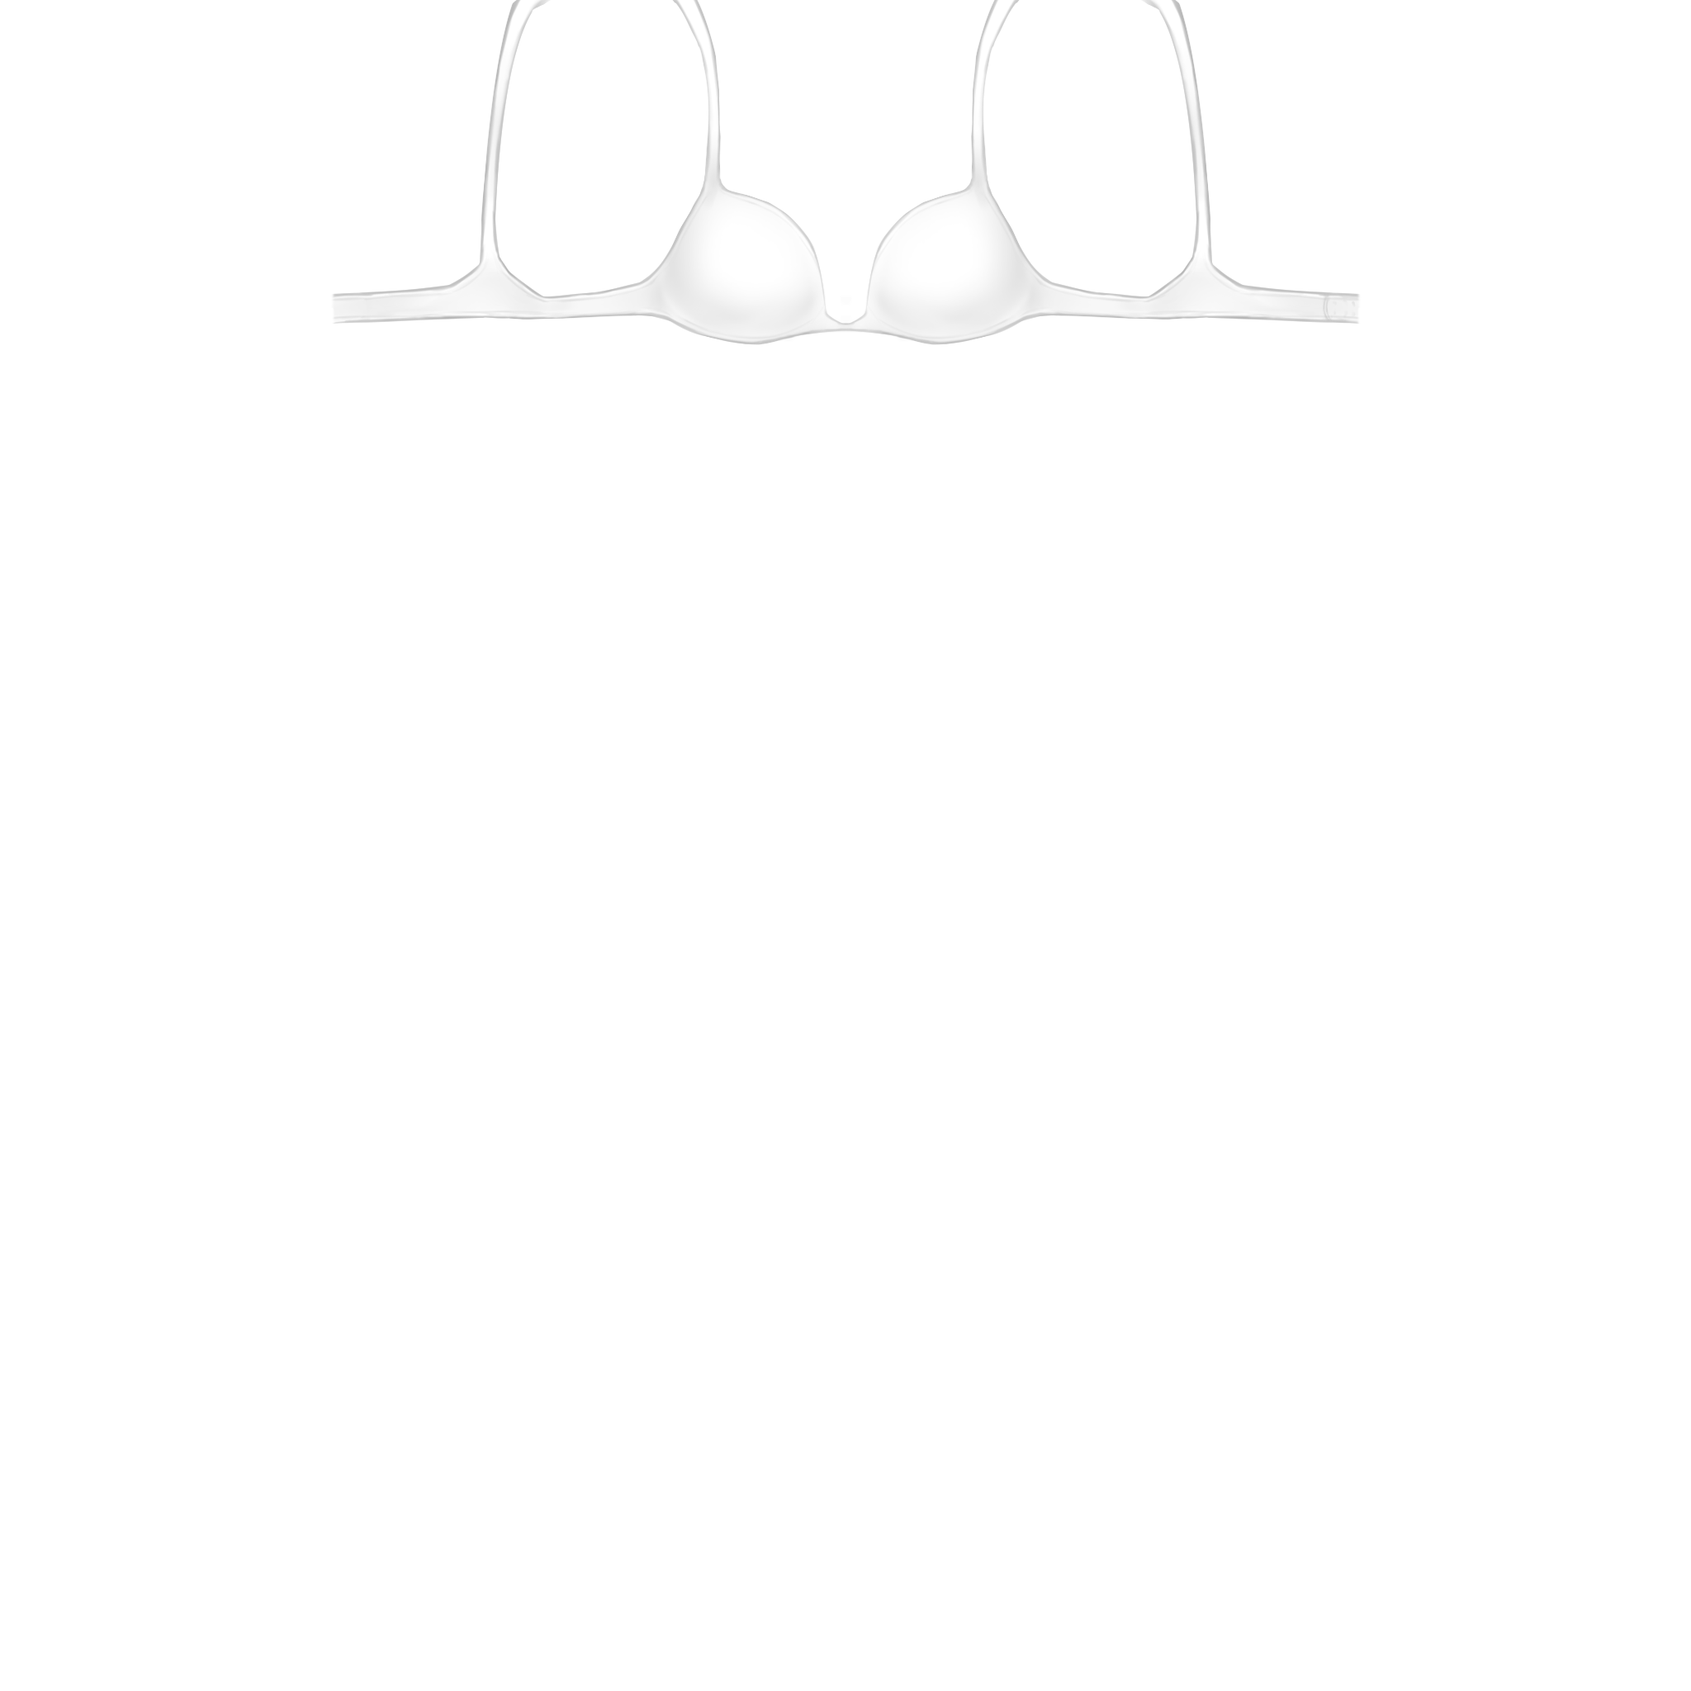
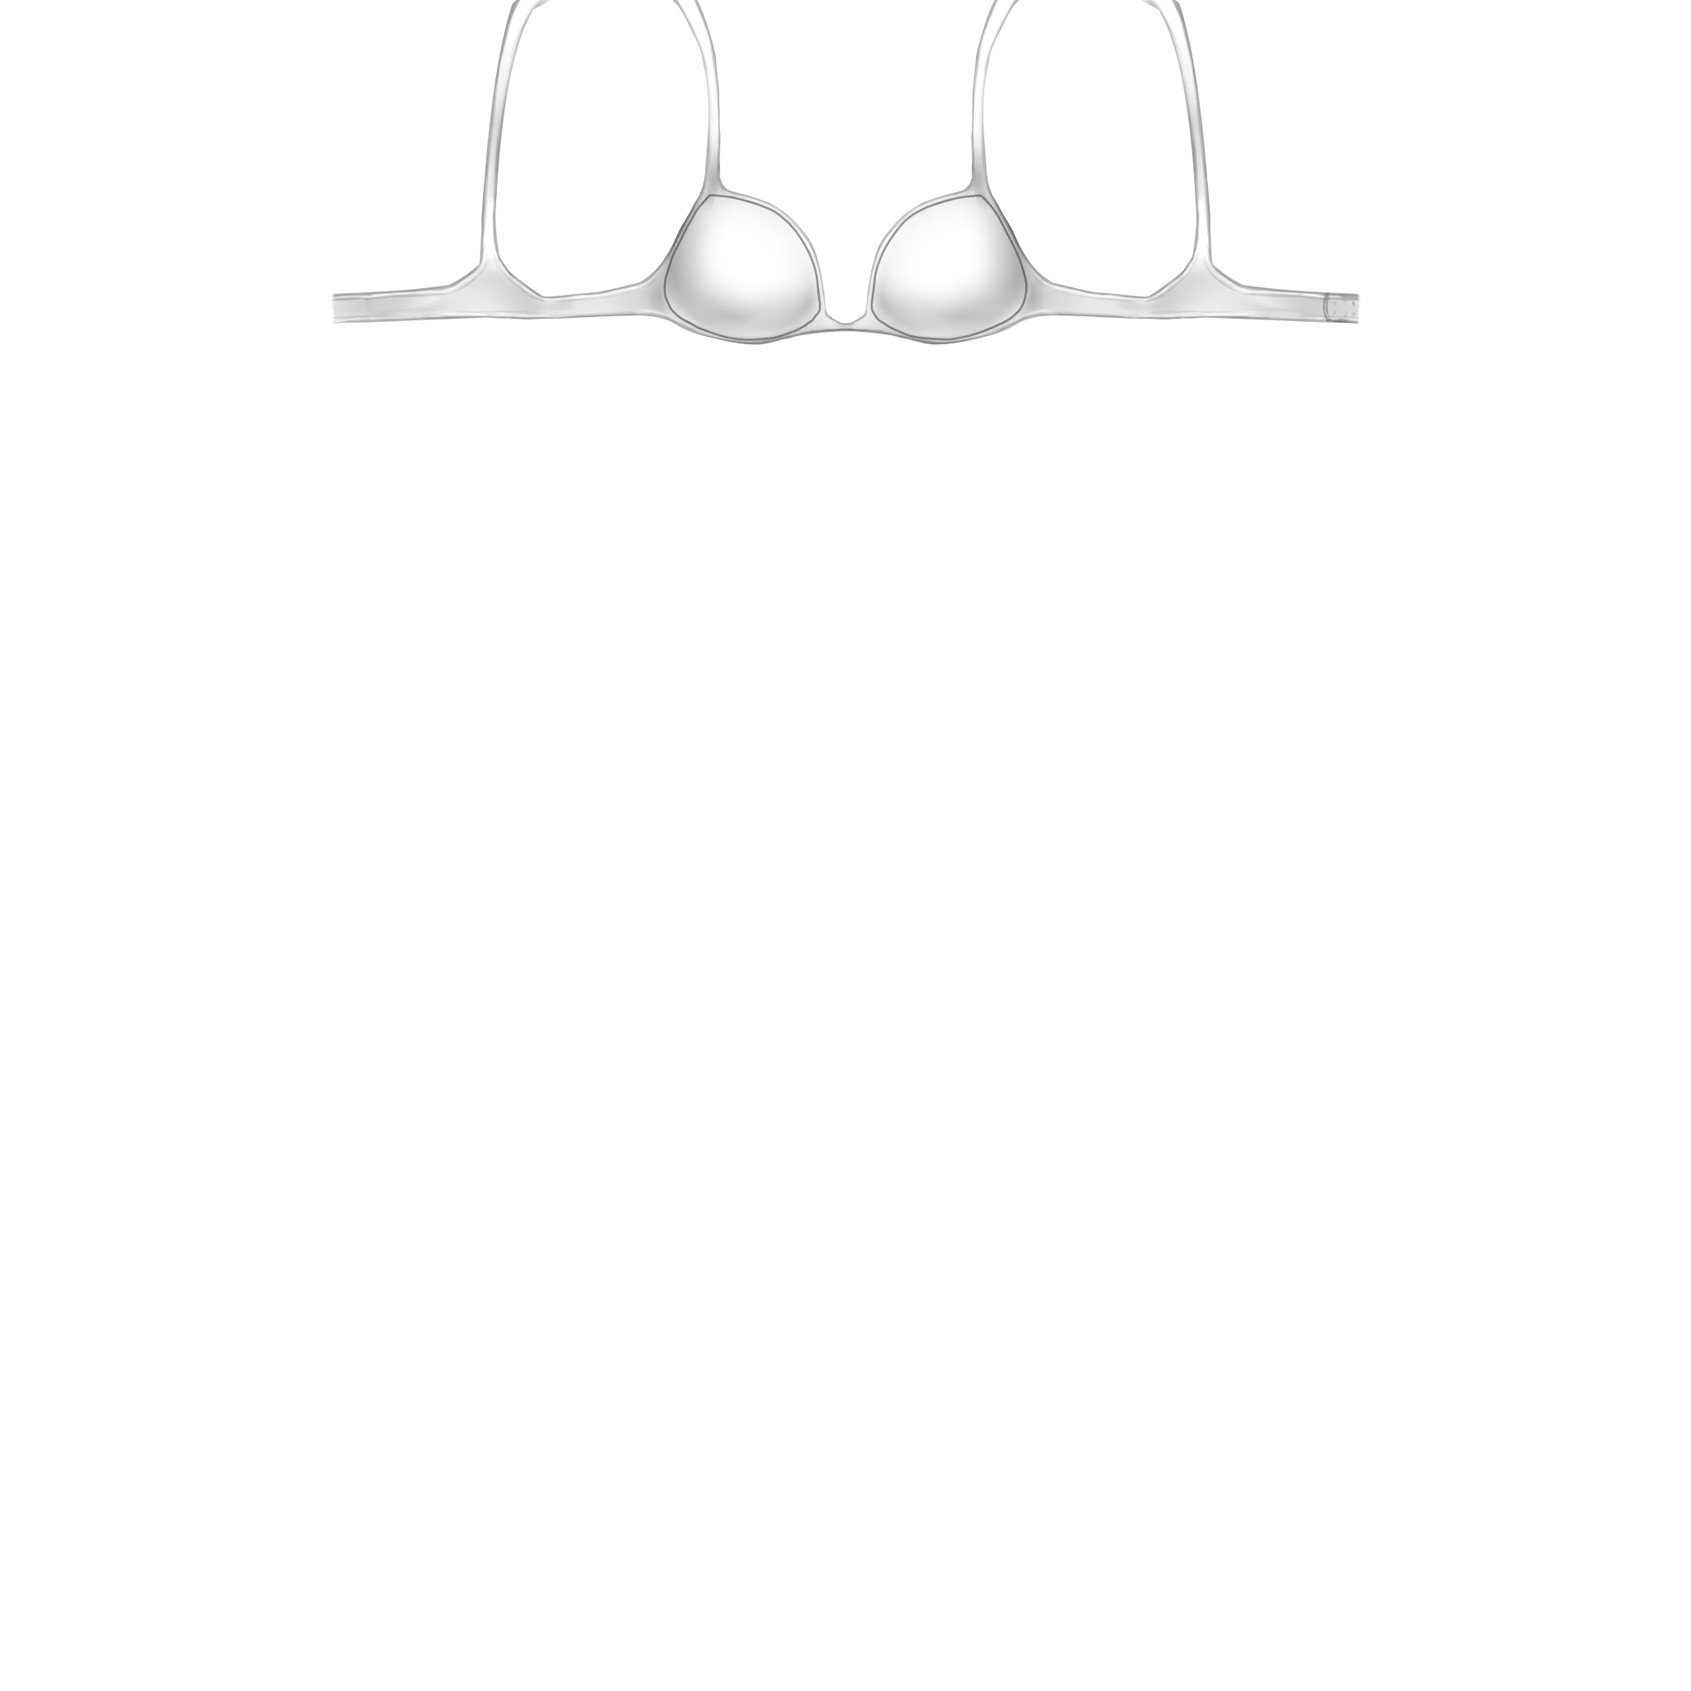
Bra converter Ver. 1.0

diff --git a/convert_bra.py b/convert_bra.py
@@ -2,11 +2,22 @@ import os
 import sys
 import skimage.io as io
 import skimage.transform as skt
-import skimage.morphology as skm
 from skimage.color import rgb2hsv, hsv2rgb, rgb2gray
 from skimage.filters import gaussian
 import numpy as np
-import matplotlib.pyplot as plt
+import argparse
+
+parser = argparse.ArgumentParser(description='Pantie2Bra Converter')
+parser.add_argument("--num", type=int, default=0, help='Set the pantie number. When you set with --all, it is the start number [Default: Latest]')
+parser.add_argument("--all", action="store_true", help='Process the all panties [Default: False]')
+parser.add_argument("--pad", action="store_true", help='Enable transparent padding [Default: Disable]')
+parser.add_argument("--lace", action="store_true", default=False, help='Enable lace bra mode [Default: Frill]')
+parser.add_argument("--disable_ribbon", action="store_true", default=False, help='Disable the center ribbon paint [Default: Enable]')
+parser.add_argument("--disable_decoration", action="store_true", default=False, help='Disable the decoration such as frill and lace [Default: Enable]')
+parser.add_argument("--disable_shading", action="store_true", default=False, help='Disable the automatic shading [Default: Enable]')
+parser.add_argument("--disable_texture", action="store_true", default=False, help='Disable the automatic base texture painting [Default: Enable]')
+args = parser.parse_args()
+os.makedirs('converted', exist_ok=True)
 
 panties = os.listdir('./dream/')
 ribbon_mask = io.imread('./mask/ribbon.png')
@@ -22,17 +33,21 @@ os.makedirs('./converted/bra/', exist_ok=True)
 def alpha_brend(ref, template):
     return ref * (1 - template[:, :, -1][:, :, None]) + template[:, :, :3] * template[:, :, -1][:, :, None]
 
-# flag frill lace ribbon shading texture
 
-for fname in panties[70:]:
-    print('Process: ' + fname)
+if args.all:
+    panties = panties[args.num - 1:]
+else:
+    panties = list([panties[args.num - 1]])
+
+for fname in panties:
     pantie = io.imread('./dream/' + fname)
+    print('Process: ' + fname)
 
     # crop center texture
     center_texture = pantie[20:140, -170:-15]
     center_texture = skt.resize(center_texture, (np.int(center_texture.shape[0] * 1.6), np.int(center_texture.shape[1] * 1.6)), anti_aliasing=True, mode='reflect')
     [hr, hc, hd] = center_texture.shape
-    
+
     # make seamless design
     design = rgb2gray(center_texture[:, :, :3])[::-1, ::-1]
     design = (design - np.min(design)) / (np.max(design) - np.min(design))
@@ -43,7 +58,7 @@ for fname in panties[70:]:
     x = np.arange(-hc / 2, hc / 2, dtype=np.int16)
     design_seamless = (design_seamless[y, :])[:, x]  # rearrange pixels
     design_seamless = np.tile(design_seamless, (3, 3))
-    
+
     # paste center texture
     posx = 20
     posy = 230
@@ -62,53 +77,65 @@ for fname in panties[70:]:
     base_shade = (np.median(np.median(front, axis=0), axis=0) / 255.0)[:3]
     base_texture = np.copy(bra_mask).astype(np.float32) / 255.0
     base_texture[:, :, :3] = (base_texture[:, :, :3] * base)
-    shade = rgb2hsv(np.tile((design_seamless)[:, :, None], [1, 1, 3]) * base_shade)
-    shade[:, :, 0] -= 0
-    shade[:, :, 1] *= -2 + np.mean(base)
-    shade[:, :, 2] /= 6 + 3 * np.mean(base)
-    shade = hsv2rgb(shade)
-    base_texture[:, :, :3] -= shade[:r, :c, ]
+    if args.disable_texture is False:
+        shade = rgb2hsv(np.tile((design_seamless)[:, :, None], [1, 1, 3]) * base_shade)
+        shade[:, :, 0] -= 0
+        shade[:, :, 1] *= -4 + (1 - np.mean(base)) * 6
+        shade[:, :, 2] /= 6 + 3 * np.mean(base)
+        shade = hsv2rgb(shade)
+        base_texture[:, :, :3] -= shade[:r, :c, ]
 
     # convine center and base textures and shading
     center_mask = (bra_center[:, :, 0][:, :, None] / 255.0).astype(np.float32)
     convined_texture = base_texture * (1 - center_mask) + center_texture * center_mask
     convined_texture = np.concatenate([convined_texture[:, ::-1, :], convined_texture], axis=1)
-    shade = rgb2hsv(np.tile((bra_shade[:, :, 3].astype(np.float32) / 255.0)[:, :, None], [1, 1, 3]) * base_shade)
-    shade[:, :, 0] -= 1
-    shade[:, :, 1] *= 0.5 + np.mean(base) / 3
-    shade[:, :, 2] /= 1 + 1 * np.mean(base)
-    shade = hsv2rgb(shade)
-    convined_texture[:, :, :3] -= shade
+    if args.disable_shading is False:
+        shade = rgb2hsv(np.tile((bra_shade[:, :, 3].astype(np.float32) / 255.0)[:, :, None], [1, 1, 3]) * base_shade)
+        shade[:, :, 0] -= 1
+        shade[:, :, 1] *= 0.5 + np.mean(base) / 3
+        shade[:, :, 2] /= 1 + 1 * np.mean(base)
+        shade = hsv2rgb(shade)
+        convined_texture[:, :, :3] -= shade
 
     # Paste frill or lace
-    # decoration = np.copy(lace).astype(np.float32) / 255.0
-    decoration = np.copy(frill).astype(np.float32) / 255.0
-    deco_shade = np.median(pantie[5, :, :3], axis=0) / 255.0
-    shade = rgb2hsv(decoration[:, :, :3] * deco_shade)
-    shade[:, :, 1] *= 0.5 + np.mean(base) / 3
-    decoration_shaded = hsv2rgb(shade)
-    decoration_shaded = np.dstack((decoration_shaded, decoration[:, :, 3]))
-    convined_texture[:, :, :3] = alpha_brend(convined_texture[:, :, :3], decoration_shaded)
+    if args.disable_decoration is False:
+        if args.lace:
+            decoration = np.copy(lace).astype(np.float32) / 255.0
+        else:
+            decoration = np.copy(frill).astype(np.float32) / 255.0
+        deco_shade = np.median(pantie[5, :, :3], axis=0) / 255.0
+        shade = rgb2hsv(decoration[:, :, :3] * deco_shade)
+        shade[:, :, 1] *= 0.5 + np.mean(base) / 3
+        decoration_shaded = hsv2rgb(shade)
+        decoration_shaded = np.dstack((decoration_shaded, decoration[:, :, 3]))
+        convined_texture[:, :, :3] = alpha_brend(convined_texture[:, :, :3], decoration_shaded)
 
     # Crop ribbon and pasete <0070.png
-    ribbon = np.copy(pantie)
-    ribbon[:, :, 3] = ribbon_mask[:, :, 1]
-    ribbon = ribbon[19:58, 8:30] / 255.0
-    ribbon_bi = np.concatenate([ribbon[:, ::-1, :], ribbon], axis=1)
-    rib_r = 383
-    rib_c = base_texture.shape[1] - int(ribbon_bi.shape[1] / 2)
-    convined_texture[rib_r:rib_r + ribbon_bi.shape[0], rib_c:rib_c + ribbon_bi.shape[1], :3] = \
-        alpha_brend(convined_texture[rib_r:rib_r + ribbon_bi.shape[0], rib_c:rib_c + ribbon_bi.shape[1], :3], ribbon_bi)
+    if args.disable_ribbon is False:
+        ribbon = np.copy(pantie)
+        ribbon[:, :, 3] = ribbon_mask[:, :, 1]
+        ribbon = ribbon[19:58, 8:30] / 255.0
+        ribbon_bi = np.concatenate([ribbon[:, ::-1, :], ribbon], axis=1)
+        rib_r = 383
+        rib_c = base_texture.shape[1] - int(ribbon_bi.shape[1] / 2)
+        convined_texture[rib_r:rib_r + ribbon_bi.shape[0], rib_c:rib_c + ribbon_bi.shape[1], :3] = \
+            alpha_brend(convined_texture[rib_r:rib_r + ribbon_bi.shape[0], rib_c:rib_c + ribbon_bi.shape[1], :3], ribbon_bi)
 
     # finalize
     final_mask = np.copy(bra_mask[:, :, 0]).astype(np.float32) / 255
-    final_mask[rib_r:rib_r + ribbon.shape[0], :ribbon.shape[1]] += ribbon[:, :, 3]
+    if args.disable_ribbon is False:
+        final_mask[rib_r:rib_r + ribbon.shape[0], :ribbon.shape[1]] += ribbon[:, :, 3]
     final_mask = np.concatenate([final_mask[:, ::-1], final_mask], axis=1)
-    final_mask += decoration[:, :, 3]
+    if args.disable_decoration is False:
+        final_mask += decoration[:, :, 3]
     final_mask = np.clip(final_mask, 0, 1)
     convined_texture[:, :, 3] = final_mask
     convined_texture = np.clip(convined_texture, 0.0, 1.0)
     convined_texture = (convined_texture * 255.0).astype(np.uint8)
 
-    # plt.imshow(convined_texture)
-    io.imsave('./converted/bra/' + fname, convined_texture)
+    if args.pad:
+        padx = int((2048 - convined_texture.shape[1]) / 2)
+        pady = 2048 - 430
+        io.imsave('./converted/bra/' + fname, np.pad(convined_texture,[(0, pady), (padx,padx), (0, 0)], mode='constant'))
+    else:
+        io.imsave('./converted/bra/' + fname, convined_texture)

diff --git a/readme.md b/readme.md
@@ -1,7 +1,7 @@
 # キッシュパンツパッチ
 パンツは一期一会  
 
-現在対応アバターはパンツ変換を含め、[キッシュ](https://mutachannel.booth.pm/items/954376)ちゃん、[キッシュ・ライト](https://mutachannel.booth.pm/items/1379653)ちゃん、[シャーロ](https://tomori-hikage.booth.pm/items/987296)ちゃん、[吸血鬼アンナ](https://wakonoatorie.booth.pm/items/1067958)ちゃん([ライト](https://wakonoatorie.booth.pm/items/1405336))、[ミルク](https://komado.booth.pm/items/1209496)ちゃん、[リンツ](https://mutachannel.booth.pm/items/1255264)ちゃん、[ルア](https://ficsnade.booth.pm/items/1255054)ちゃん、[右近](http://seiga.nicovideo.jp/seiga/im8378009)ちゃん、[ミーシェ](https://booth.pm/ja/items/1256087)ちゃん、[ファジー](https://booth.pm/ja/items/1255283)ちゃんです。
+現在対応アバターはパンツ変換を含め、[キッシュ](https://mutachannel.booth.pm/items/954376)ちゃん(素体はブラジャーも対応)、[キッシュ・ライト](https://mutachannel.booth.pm/items/1379653)ちゃん、[シャーロ](https://tomori-hikage.booth.pm/items/987296)ちゃん、[吸血鬼アンナ](https://wakonoatorie.booth.pm/items/1067958)ちゃん([ライト](https://wakonoatorie.booth.pm/items/1405336))、[ミルク](https://komado.booth.pm/items/1209496)ちゃん、[リンツ](https://mutachannel.booth.pm/items/1255264)ちゃん(素体はブラジャーも対応)、[ルア](https://ficsnade.booth.pm/items/1255054)ちゃん、[右近](http://seiga.nicovideo.jp/seiga/im8378009)ちゃん、[ミーシェ](https://booth.pm/ja/items/1256087)ちゃん、[ファジー](https://booth.pm/ja/items/1255283)ちゃんです。
 
 ## 導入にあたって
 2019/06/12以降は[自動インストールバッチファイル](https://gist.github.com/TenteEEEE/1ef33308bd841e3c5f1c8a1a8ab95d67)を実行するのが一番簡単です。  
@@ -10,6 +10,7 @@
 URL: https://twitter.com/siro_choco0621/status/1131587508238659585
 
 ## 更新履歴
+2019/06/18: キッシュ/リンツちゃん素体用のブラジャーへの変換に対応しました。  
 2019/06/12: [自動インストールバッチファイル](https://gist.github.com/TenteEEEE/1ef33308bd841e3c5f1c8a1a8ab95d67)を公開しました。  
 2019/06/07: [アンナ・ライト](https://wakonoatorie.booth.pm/items/1405336)への変換に対応しました。  
 2019/06/05: フーリエ変換されたパンツ画像の逆変換に対応しました。phase_retrieval.pyでは[ERあるいはHIOアルゴリズム](https://en.wikipedia.org/wiki/Phase_retrieval)の選択、cupyがあればGPU上で実行できます。  
@@ -47,7 +48,28 @@ URL: https://twitter.com/siro_choco0621/status/1131587508238659585
 4. patched.pngが上書き済みテクスチャです Enjoy!
 
 パッチを実行するときに `python patch.py -r` とすると、ランダムでパンツが選ばれます。  
-また、`-l`を追加するとリンツちゃん向けの微補正を加えます。`-n`はキッシュちゃん素体用のオプションです。
+また、`-l`を追加するとリンツちゃん向けの微補正を加えます。`-n`はキッシュ/リンツちゃん素体用のオプションです。
+
+## ブラコンバート(キッシュ、リンツちゃん素体用)
+convert_bra.pyでキッシュ/リンツちゃん素体用のブラジャーを自動生成できます。  
+`python convert_bra.py`  
+とすれば最新のパンツが変換されます。番号を指定したい場合は  
+`python convert_bra.py --num 101`  
+のようにします。また、上から重ねるだけの楽ちんテクスチャを作りたければ更に  
+`python convert_bra.py --num 101 --pad`  
+のように`--pad`オプションを併用すると良いです。
+
+### オプション
+* --num: 変換するパンツ番号を指定できます。何も入力しなければ最新のパンツが選ばれます。
+* --all: 全てのパンツを変換できます。numで指定するとその番号から最新まで変換します。
+* --pad: パディングを行い、上から重ねるだけの楽ちんテクスチャを作ります
+* --lace: デフォルトではフリルを貼り付けますが、レースにもできます
+
+以下はペイントソフトなどで手動調整する人向けのオプションです。
+* --disable_ribbon: リボンはデフォルトで取り付けられますが、付けたくない場合はこれを書くと良いです。
+* --disable_decoration: フリルやレースを貼り付けないようにします。
+* --disable_shading: 影の自動彩色をやめます。
+* --disable_texture: ブラの胸パッド部分以外の自動テクスチャをやめます。
 
 ## パンツコンバート
 すべてきれいに変換できるわけではありませんが、[シャーロ](https://tomori-hikage.booth.pm/items/987296)ちゃん、[吸血鬼アンナ](https://wakonoatorie.booth.pm/items/1067958)ちゃん、[ミルク](https://komado.booth.pm/items/1209496)ちゃん、[ルア](https://ficsnade.booth.pm/items/1255054)ちゃん、[右近](http://seiga.nicovideo.jp/seiga/im8378009)ちゃん、[ミーシェ](https://booth.pm/ja/items/1256087)ちゃん、[ファジー](https://booth.pm/ja/items/1255283)ちゃんのパンツに変換できます。  
@@ -82,6 +104,8 @@ URL: https://twitter.com/siro_choco0621/status/1131587508238659585
 |![test](./sample/ukon_pantie.png)|![test](./sample/mishe_pantie.png)|
 |[ファジー](https://booth.pm/ja/items/1255283)ちゃん|[吸血鬼アンナ light](https://wakonoatorie.booth.pm/items/1405336)ちゃん|
 |![test](./sample/fuzzy_pantie.png)|![test](./sample/anna_light_pantie.png)|
+|キッシュ/リンツ用のブラ(フリル)|キッシュ/リンツ用のブラ(レース)|
+|![test](./sample/bra_frill.png)|![test](./sample/bra_lace.png)|
 
 
 ## スペシャルサンクス
@@ -123,6 +147,11 @@ Treasure every pantie encounter as it may not come again.
 2019/06/05 Support inverse Fourier transform from the intensity of the Fourier transformed panties. phase_retrieval.py handles [ER or HIO algorithm](https://en.wikipedia.org/wiki/Phase_retrieval). If you know cupy, it can run on GPUs.  
 2019/06/07: Support [Anna light version](https://wakonoatorie.booth.pm/items/1405336).  
 2019/06/12: I published [the auto install batch file](https://gist.github.com/TenteEEEE/1ef33308bd841e3c5f1c8a1a8ab95d67).  
+2019/06/18: Support bra conversion for Quiche and Linz body.  
+
+# Installation
+Please check it out [the automatic install batch](https://gist.github.com/TenteEEEE/1ef33308bd841e3c5f1c8a1a8ab95d67).  
+You just run the batch file with administrator permission.
 
 # Pre-requirements
 If you have any paint or retouch software, you can override easily.  
@@ -149,6 +178,27 @@ The instructions can also be used for Shaclo and Anna patch.
 3. Put your pantie name
 4. Enjoy
 
+## Bra conversion for Quiche/Linz
+convert_bra.py generates a bra automatically. You just run the following command.  
+`python convert_bra.py`  
+It converts the latest pantie to bra. When you want to set the number which you want,  
+`python convert_bra.py --num 101`  
+That's it. Of course, there is a nice option to generate size and position optimized bra,  
+`python convert_bra.py --num 101 --pad`  
+You just set `--pad` option like this.
+
+### Options
+* --num: You can set the number which you want.
+* --all: It converts the all panties to bra. When you set num option, it is a start number.
+* --pad: Enable padding for easy overlaying.
+* --lace: It enables lace decoration instead of frill.
+
+The following options are made for designers who want to design by yourself.
+* --disable_ribbon: It disables ribbon pasting.
+* --disable_decoration: It disables race and frill decoration.
+* --disable_shading: It disables auto shading.
+* --disable_texture: It disables texture painting on the base of bra.
+
 ## Converted examples
 |||
 |:-:|:-:|
@@ -160,6 +210,8 @@ The instructions can also be used for Shaclo and Anna patch.
 |![test](./sample/ukon_pantie.png)|![test](./sample/mishe_pantie.png)|
 |[Fuzzy](https://booth.pm/ja/items/1255283)|[Anna light](https://wakonoatorie.booth.pm/items/1405336)|
 |![test](./sample/fuzzy_pantie.png)|![test](./sample/anna_light_pantie.png)|
+|Bra for Quiche and Linz (Frill)|Bra for Quiche and Linz (Lace)|
+|![test](./sample/bra_frill.png)|![test](./sample/bra_lace.png)|
 
 # Any error?
 ## Windows
